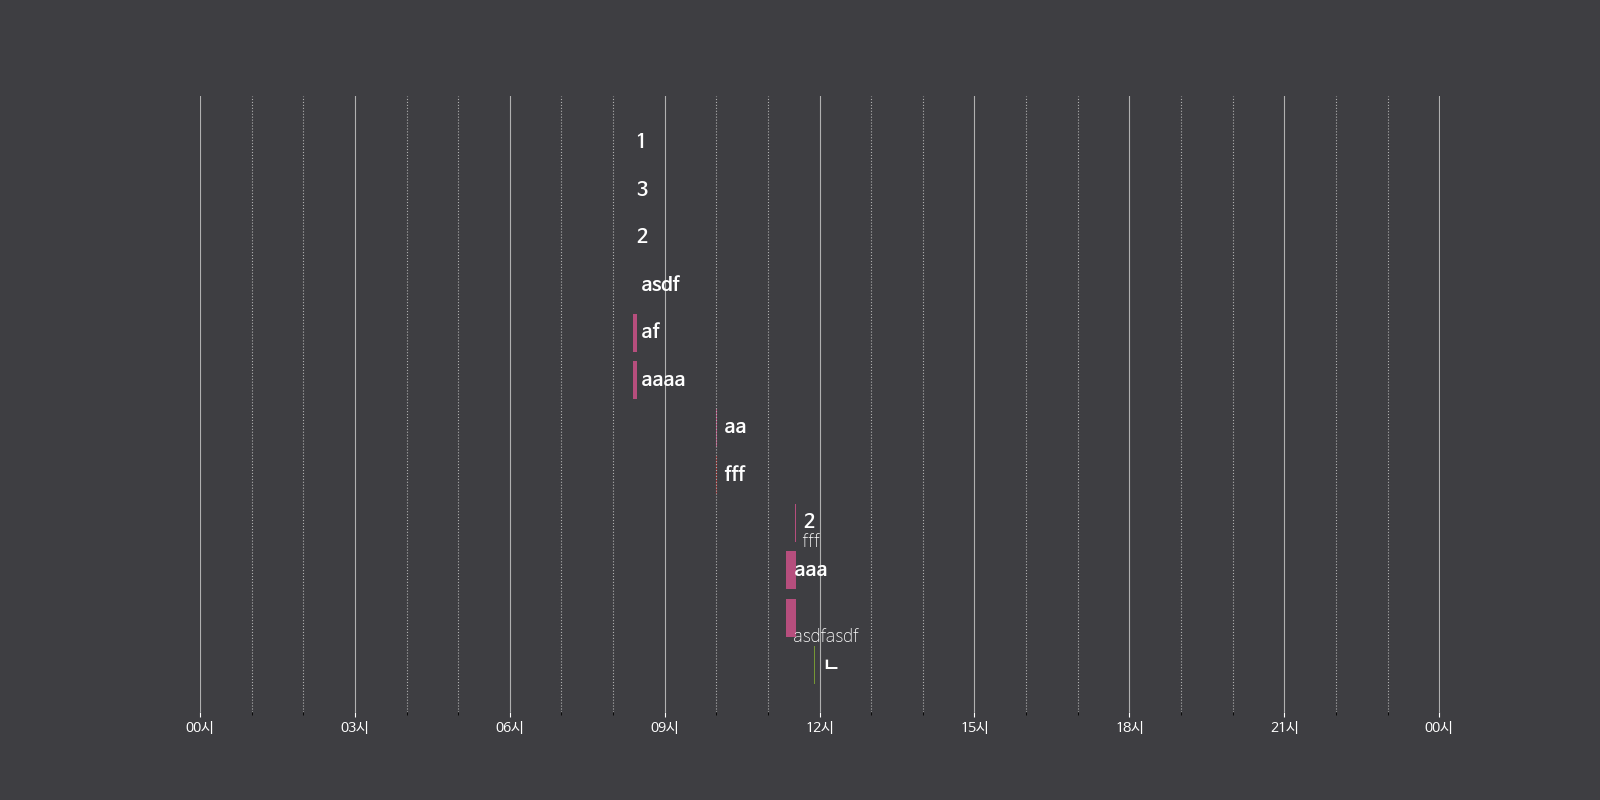
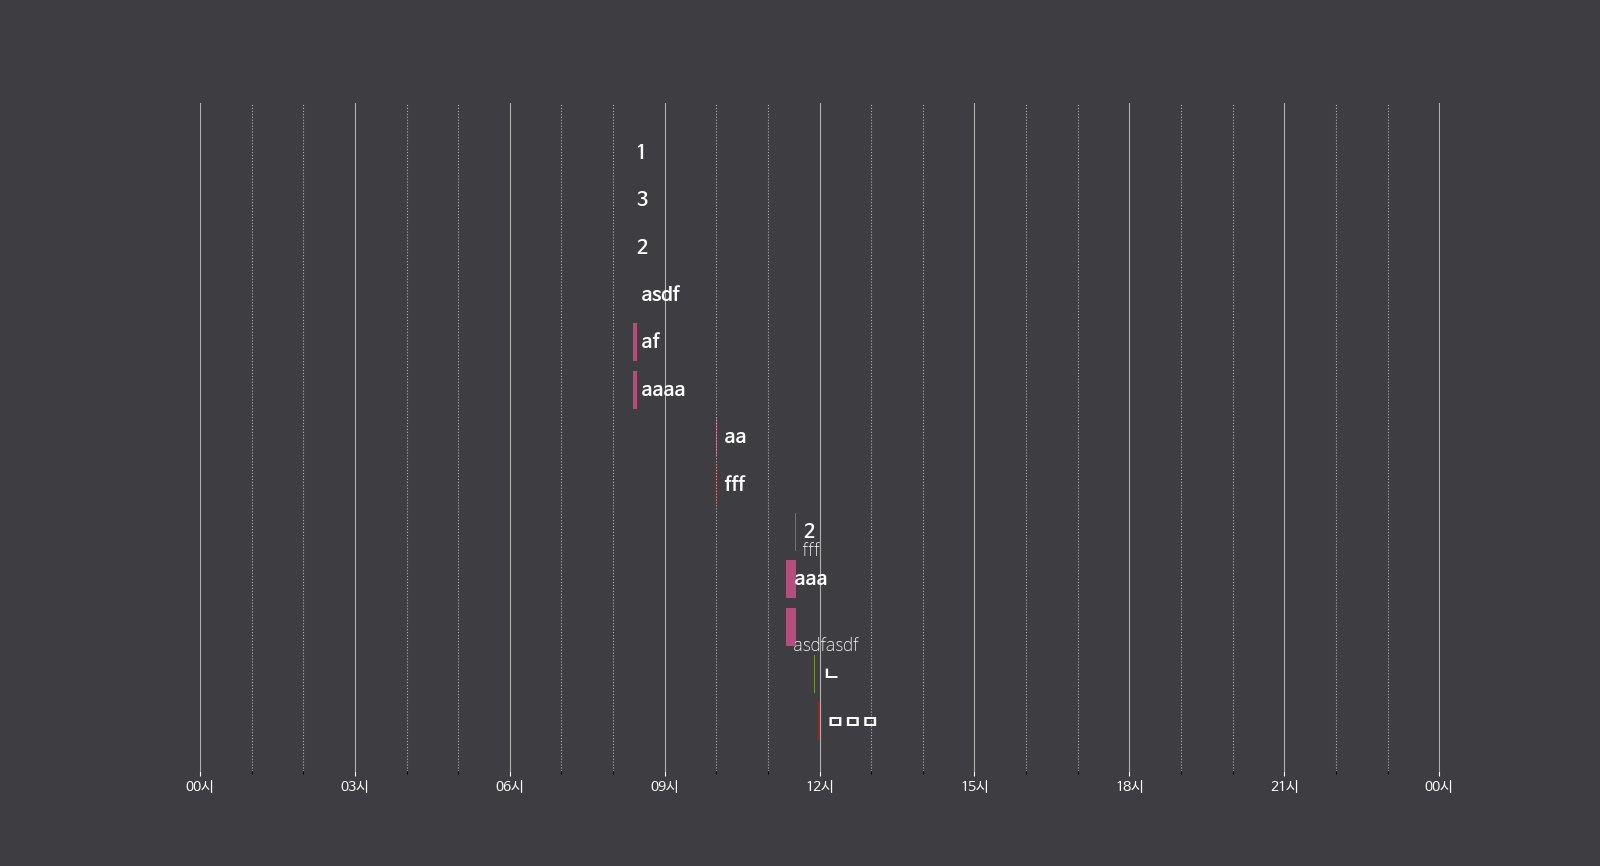
시스템 메시지가 10초 후 삭제되도록 변경

diff --git a/objects/task_embed.py b/objects/task_embed.py
@@ -41,7 +41,7 @@ class FinishButton( discord.ui.Button ):
     async def callback( self, interaction: discord.Interaction ):
         result = self.parentEmbed.task.pop()
         if result is False:
-            await interaction.response.send_message( "태스크를 찾지 못함" )
+            await interaction.response.send_message( "태스크를 찾지 못함", ephemeral = True, delete_after = 10 )
             return
 
         # ===== 원본 메시지 수정 =====
@@ -58,7 +58,7 @@ class FinishButton( discord.ui.Button ):
 
         result.record()
         await updateTimetable( interaction.client ) # type: ignore
-        await interaction.response.send_message( "태스크 완료됨" )
+        await interaction.response.send_message( "태스크 완료됨", ephemeral = True, delete_after = 10 )
 
 
 class TextEditButton( discord.ui.Button ):
@@ -88,11 +88,11 @@ class TextEditModal( discord.ui.Modal ):
 
     async def on_submit( self, i: discord.Interaction ):
         if not self.name and not self.desc:
-            await i.response.send_message( "태스크가 수정되지 않았습니다." )
+            await i.response.send_message( "태스크가 수정되지 않았습니다.", ephemeral = True, delete_after = 10 )
         else:
             self.button.parentEmbed.task.edit( name = self.name.value, desc = self.desc.value )
             await i.message.edit( embed = TaskEmbed( self.button.parentEmbed.task, i.client.info ) )    # type: ignore
-            await i.response.send_message( "태스크가 수정되었습니다." )
+            await i.response.send_message( "태스크가 수정되었습니다.", ephemeral = True, delete_after = 10 )
 
 
 class CategoryEditButton( discord.ui.Button ):
@@ -105,7 +105,7 @@ class CategoryEditButton( discord.ui.Button ):
 
 
     async def callback( self, interaction: discord.Interaction ):
-        await interaction.response.send_message( view = CategoryEditView( self, interaction.message ) ) # type: ignore
+        await interaction.response.send_message( view = CategoryEditView( self, interaction.message ), ephemeral = True, delete_after = 10 ) # type: ignore
 
 
 class CategoryEditView( discord.ui.View ):
@@ -126,12 +126,12 @@ class CategorySelect( discord.ui.RoleSelect ):
         category = self.values[0]
 
         if category not in interaction.client.info.tag: # type: ignore
-            await interaction.response.send_message( "잘못된 카테고리입니다." )
+            await interaction.response.send_message( "잘못된 카테고리입니다.", ephemeral = True, delete_after = 10 )
             return
 
         self.button.parentEmbed.task.edit( category = Category( interaction.client.info.tag.index( category ) ) )   # type: ignore
         await self.msg.edit( embed = TaskEmbed( self.button.parentEmbed.task, interaction.client.info ) )    # type: ignore
-        await interaction.response.send_message( "태스크가 수정되었습니다." )
+        await interaction.response.send_message( "태스크가 수정되었습니다.", ephemeral = True, delete_after = 10 )
 
 
 class AbortButton( discord.ui.Button ):
@@ -145,7 +145,7 @@ class AbortButton( discord.ui.Button ):
     async def callback( self, interaction: discord.Interaction ):
         result = self.parentEmbed.task.pop()
         if result is False:
-            await interaction.response.send_message( "태스크를 찾지 못함" )
+            await interaction.response.send_message( "태스크를 찾지 못함", ephemeral = True, delete_after = 10 )
             return
 
         # ===== 원본 메시지 수정 =====
@@ -159,4 +159,4 @@ class AbortButton( discord.ui.Button ):
         await interaction.message.edit( embed = embed, view = self.view )  # type: ignore
         # ============================
 
-        await interaction.response.send_message( "태스크 중단됨" )
+        await interaction.response.send_message( "태스크 중단됨", ephemeral = True, delete_after = 10 )

diff --git a/cogs/register_task.py b/cogs/register_task.py
@@ -19,7 +19,7 @@ class RegisterTaskCog( Cog ):
         try:
             categoryObj = Category( self.bot.info.tag.index( category ) )
         except ValueError:
-            await i.response.send_message( "잘못된 카테고리입니다." )
+            await i.response.send_message( "잘못된 카테고리입니다.", ephemeral = True, delete_after = 10 )
         else:
             task = Task(
                 name = name,
@@ -29,12 +29,12 @@ class RegisterTaskCog( Cog ):
 
             result = task.push()
             if result is False:
-                await i.response.send_message( "태스크가 등록되지 않았습니다." )
+                await i.response.send_message( "태스크가 등록되지 않았습니다.", ephemeral = True, delete_after = 10 )
                 return
 
             embed = TaskEmbed( task, self.bot.info )
             await self.bot.info.channel_log.send( embed = embed, view = TaskEmbedView( embed ) )
-            await i.response.send_message( "태스크가 등록되었습니다." )
+            await i.response.send_message( "태스크가 등록되었습니다.", ephemeral = True, delete_after = 10 )
 
 
     @discord.app_commands.command( name = "태스크_완료", description = "진행 중인 태스크를 전부 완료합니다." )
@@ -50,7 +50,7 @@ class RegisterTaskCog( Cog ):
             json.dump( [], f )
 
         await updateTimetable( i.client ) # type: ignore
-        await i.response.send_message( "태스크 완료됨" )
+        await i.response.send_message( "태스크 완료됨", ephemeral = True, delete_after = 10 )
 
 
     @discord.app_commands.command( name = "태스크_중단", description = "진행 중인 태스크를 전부 중단합니다." )
@@ -58,4 +58,4 @@ class RegisterTaskCog( Cog ):
         with open( "data/current_tasks.json", 'w', encoding = "UTF-8" ) as f:
             json.dump( [], f )
 
-        await i.response.send_message( "태스크 중단됨" )
+        await i.response.send_message( "태스크 중단됨", ephemeral = True, delete_after = 10 )
